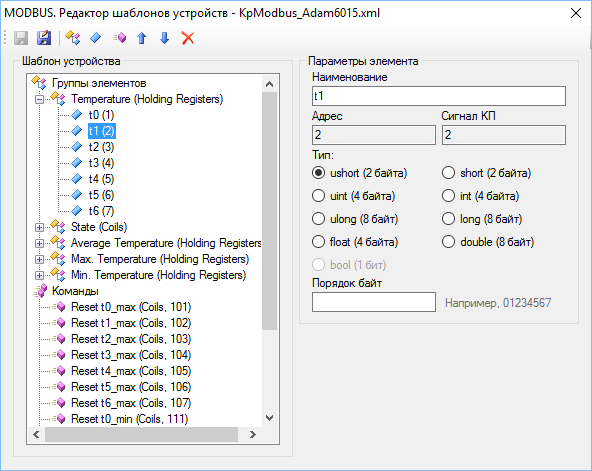
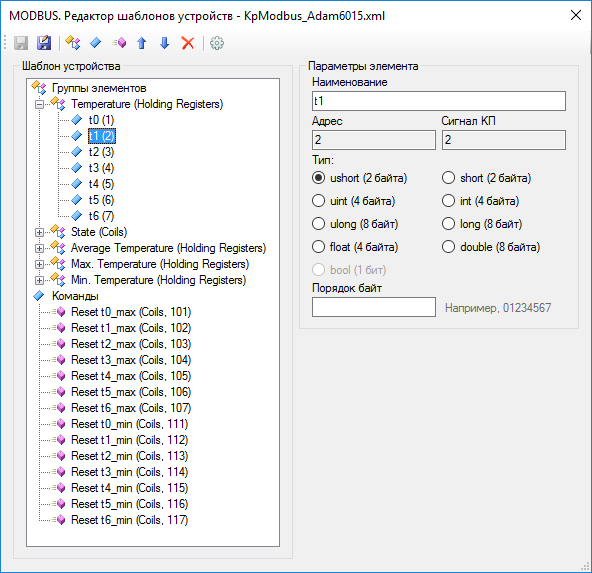
ScadaDoc: update Modbus article (ru)

diff --git a/ScadaDoc/ScadaDoc/content/ru/use-cases/modbus-protocol.html b/ScadaDoc/ScadaDoc/content/ru/use-cases/modbus-protocol.html
@@ -140,15 +140,20 @@
 
     <p>Шаблон устройства отражает структуру пакетов данных протокола Modbus. Данные, запрашиваемые от устройства, объединены в группы элементов (тегов). Группа элементов описывается наименованием, таблицей данных, адресом и количеством элементов. Для команд, если они поддерживаются устройством, необходимо задать наименование, таблицу данных, адрес и номер команды КП (от 1 и далее по порядку).</p>
 
-    <p>Наименования элементов и команд могут быть произвольными. Таблицы данных и адреса элементов должны содержаться в документации на подключаемое устройство. По стандарту протокола Modbus адресация элементов начинается с 1, однако многие производители в своей документации начинают адресацию с 0-го адреса. В этом случае при создании шаблона необходимо добавлять 1 к каждому адресу, указанному производителем.</p>
+    <p>Наименования элементов и команд могут быть произвольными. Таблицы данных и адреса элементов должны содержаться в документации на подключаемое устройство. В зависимости от производителя адресация элементов может начинаться с 0 или с 1, указываться в 10-чной или 16-ричной системе. По умолчанию в шаблоне выбрана адресация с 1 в 10-чной системе. Чтобы переключить адресацию шаблона, нажмите на кнопку <img src="../../common-images/settings.png" />. Откроется диалоговое окно настроек шаблона (рис. 10).</p>
+
+    <p class="sd-article-image">
+        <img src="modbus-protocol-files/modbus_template_settings_ru.png" alt="Настройки шаблона" /><br />
+        Рис. 10. Настройки шаблона
+    </p>
 
     <p>Для сохранения настроек Коммуникатора нажмите кнопку <img src="../../common-images/apply.png" />. Теперь можно запустить службу Коммуникатора с помощью кнопки <img src="../../common-images/start.png" /> и проверить связь с устройством.</p>
 
-    <p>Щёлкните элемент дерева КП 101 "Тестовый КП", чтобы проконтролировать состояние КП и наличие данных (рис. 10). Данные появятся не сразу после запуска, а после завершения первого опроса КП.</p>
+    <p>Щёлкните элемент дерева КП 101 "Тестовый КП", чтобы проконтролировать состояние КП и наличие данных (рис. 11). Данные появятся не сразу после запуска, а после завершения первого опроса КП.</p>
 
     <p class="sd-article-image">
         <img src="modbus-protocol-files/modbus_data_ru.png" alt="Данные КП" /><br />
-        Рис. 10. Данные КП
+        Рис. 11. Данные КП
     </p>
 
     <p>При отсутствии связи с устройством используйте журнал линии связи для анализа причины проблемы. Чтобы открыть журнал, щёлкните по элементу дерева <em>Статистика линии связи</em> и перейдите на страницу <em>Журнал линии связи</em>. С помощью онлайн инструмента <a href="http://modbus.rapidscada.net/" target="_blank">Online Modbus Parser</a> можно получить расшифровку пакетов данных, скопировав их на веб-форму из журнала линии связи.</p>
@@ -159,11 +164,11 @@
 
     <p>Сервис автоматического создания каналов поможет сэкономить время. Выберите в главном меню программы <em>Сервис &gt; Создание каналов</em>.</p>
 
-    <p>На открывшейся форме (рис. 11) выберите в выпадающем списке "Тестовая линия", затем поставьте галочку напротив "Тестового КП", а также установите "Тестовый объект" в столбце <em>Объект</em>. Задайте параметры нумерации каналов, если хотите, чтобы создаваемые каналы имели удобные для работы номера. Нажмите сначала кнопку <em>Рассчитать номера каналов</em>, затем кнопку <em>Создать</em>.</p>
+    <p>На открывшейся форме (рис. 12) выберите в выпадающем списке "Тестовая линия", затем поставьте галочку напротив "Тестового КП", а также установите "Тестовый объект" в столбце <em>Объект</em>. Задайте параметры нумерации каналов, если хотите, чтобы создаваемые каналы имели удобные для работы номера. Нажмите сначала кнопку <em>Рассчитать номера каналов</em>, затем кнопку <em>Создать</em>.</p>
 
     <p class="sd-article-image">
         <img src="modbus-protocol-files/modbus_create_cnls_ru.png" alt="Создание каналов" /><br />
-        Рис. 11. Создание каналов
+        Рис. 12. Создание каналов
     </p>
 
     <p>Каналы создаются автоматически на основе шаблона устройства, который был создан и назначен КП в предыдущем разделе статьи. Посмотреть созданные каналы можно, щёлкнув в Администраторе по элементу дерева <em>Входные каналы &gt; Тестовый КП</em> или <em>Каналы управления &gt; Тестовый КП</em>. Рекомендуется вручную заполнить поля <em>Величина</em> и <em>Размерность</em> для входных каналов и поле <em>Значения команды</em> для каналов управления. Однако в случае первого опыта это делать необязательно.</p>
@@ -172,11 +177,11 @@
 
     <p>После того, как редактирование базы конфигурации завершено, следует нажать кнопку <img src="../../common-images/pass.gif" /> для передачи изменений Серверу, перезапустить Сервер и Коммуникатор с помощью кнопок <img src="../../common-images/restart_blue.gif" /> и <img src="../../common-images/restart_yellow.gif" />.</p>
 
-    <p>Откройте страницу <em>Данные КП</em> в Коммуникаторе и убедитесь, что созданные входные каналы связаны с тегами КП – столбец <em>Канал</em> должен содержать номера созданных входных каналов (рис. 12).</p>
+    <p>Откройте страницу <em>Данные КП</em> в Коммуникаторе и убедитесь, что созданные входные каналы связаны с тегами КП – столбец <em>Канал</em> должен содержать номера созданных входных каналов (рис. 13).</p>
 
     <p class="sd-article-image">
         <img src="modbus-protocol-files/modbus_data_with_cnls_ru.png" alt="Данные КП с привязкой каналов" /><br />
-        Рис. 12. Данные КП с привязкой каналов
+        Рис. 13. Данные КП с привязкой каналов
     </p>
 
     <p>В результате проделанных действий данные должны собираться с устройства и сохраняться в архив. Осталось настроить пользовательский интерфейс оператора.</p>
@@ -185,34 +190,34 @@
 
     <p>Рассмотрим создание табличного представления для приложения Вебстанция. Для этого нам понадобится программа Редактор таблиц (если необходимо отобразить данные на мнемосхеме, то вместо редактора таблиц используйте Редактор схем).</p>
 
-    <p>Откройте Редактор таблиц и заполните табличное представление, как показано на рис. 13. Добавить канал в таблицу (из левой части окна в правую) можно по кнопке <img src="../../common-images/plus.png" />, двойному щелчку на строке канала или по клавише Enter.</p>
+    <p>Откройте Редактор таблиц и заполните табличное представление, как показано на рис. 14. Добавить канал в таблицу (из левой части окна в правую) можно по кнопке <img src="../../common-images/plus.png" />, двойному щелчку на строке канала или по клавише Enter.</p>
 
     <p>Сохраните созданное табличное представление в файл с именем TestTable.tbl в папку C:\SCADA\Interface\Test. Обратите внимание, что имена папок и файлов представлений должны содержать только латинские символы.</p>
 
     <p class="sd-article-image">
         <img src="modbus-protocol-files/modbus_table_editor_ru.png" alt="Редактор таблиц" /><br />
-        Рис. 13. Редактор таблиц
+        Рис. 14. Редактор таблиц
     </p>
 
-    <p>Далее, чтобы табличное представление появилось в веб-приложении, его необходимо прописать в базе конфигурации в таблице <em>Интерфейс</em> с помощью программы Администратор, как показано на рис. 14.</p>
+    <p>Далее, чтобы табличное представление появилось в веб-приложении, его необходимо прописать в базе конфигурации в таблице <em>Интерфейс</em> с помощью программы Администратор, как показано на рис. 15.</p>
 
     <p class="sd-article-image">
         <img src="modbus-protocol-files/modbus_table_itf_ru.png" alt="Добавление представления в таблицу Интерфейс" /><br />
-        Рис. 14. Добавление представления в таблицу Интерфейс
+        Рис. 15. Добавление представления в таблицу Интерфейс
     </p>
 
     <p>Чтобы сделанные изменения вступили в силу, необходимо передать базу Серверу с помощью кнопки <img src="../../common-images/pass.gif" /> и перезапустить службу Сервера кнопкой <img src="../../common-images/restart_blue.gif" />.</p>
 
-    <p>Теперь запустите браузер и введите адрес <a href="http://localhost/scada/" target="_blank">http://localhost/scada/</a>. На форме входа в систему используйте логин admin и пароль 12345 (рис. 15). Если настройка выполнена правильно, то после входа в систему Вам будет доступна таблица с получаемыми от устройства данными (рис. 16).</p>
+    <p>Теперь запустите браузер и введите адрес <a href="http://localhost/scada/" target="_blank">http://localhost/scada/</a>. На форме входа в систему используйте логин admin и пароль 12345 (рис. 16). Если настройка выполнена правильно, то после входа в систему Вам будет доступна таблица с получаемыми от устройства данными (рис. 17).</p>
 
     <p class="sd-article-image">
         <img src="modbus-protocol-files/modbus_web1_ru.png" alt="Вход в систему" /><br />
-        Рис. 15. Вход в систему
+        Рис. 16. Вход в систему
     </p>
 
     <p class="sd-article-image">
         <img src="modbus-protocol-files/modbus_web2_ru.png" alt="Приложение Вебстанция" /><br />
-        Рис. 16. Приложение Вебстанция
+        Рис. 17. Приложение Вебстанция
     </p>
 
     <h2>Преобразование значений тегов Modbus</h2>
